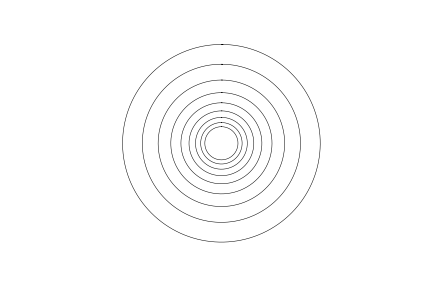
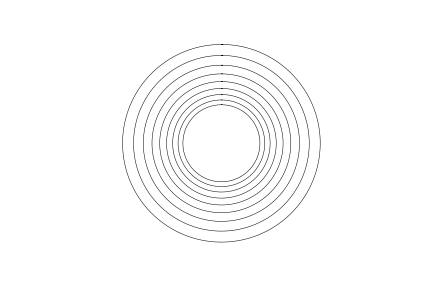
update

Changed region(s): [[0.3009, 0.1875, 0.7222, 0.8125]]

diff --git a/Retana_Efrain_Lab1.py b/Retana_Efrain_Lab1.py
@@ -14,21 +14,52 @@ def circle(center,rad):
     y = center[1]+rad*np.cos(t)
     return x,y
 
-def draw_triangles(ax,n,s):
-    ax.plot([0.5, 0.25], [0, 0.5], linewidth=0.5 ,color='k') #right line
-    ax.plot([0, 0.25], [0, 0.5], linewidth=0.5 ,color='k') #left line
-    ax.plot([0, 0.5], [0, 0], linewidth=0.5 ,color='k') #bottom line
-    
-    ax.plot([0.25,0.5], [0, 0.5], linewidth=0.5 ,color='k') #right line
-    ax.plot([0.25,0], [0, 0.5], linewidth=0.5 ,color='k') #left line
-    ax.plot([.5 , 0], [.5, .5], linewidth=0.5 ,color='k') #bottom line
-   # ax.plot([0.5, 1.01, 0.1], [-0.01, 0.5, 0.88], 'w.') #base boundary
-    
-    
+def draw_triangles(ax,n,p):
+    if n>0:
+        ax.plot(p[:,0],p[:,1],linewidth=0.5,color='k') # Draw triangle
+        i1 = [1,2,0,1]
+        q = p*(0.5)+ p[i1]*0.5
+        draw_triangles(ax,n-1,q)
+        
+def draw_triangle_grid(ax,n,p):
+    if n>0:
+        ax.plot(p[:,0],p[:,1],linewidth=0.5,color='k') # Draw triangle grid
+        i1 = [1,2,0,1]
+     
+        q = p*(0.5)+ p[i1]*0.5
+        p1 = np.array([p[0],q[2],q[0],p[0]])
+        p2 = np.array([q[2],q[1],p[2],q[2]])
+        p3 = np.array([q[0],p[1],q[1],q[0]])
+        p4 = np.array([q[0],q[1],q[2],q[0]])
+        draw_triangle_grid(ax,n-1,p1)
+        draw_triangle_grid(ax,n-1,p2)
+        draw_triangle_grid(ax,n-1,p3)
+        draw_triangle_grid(ax,n-1,p4)
+        
+   
+def draw_four_squares(ax,n,p,w):
+    if n>0:
+        ax.plot(p[:,0],p[:,1],linewidth=0.5,color='k') # plot the main square
+        # create a new square for each corner -- represented as p1(bottom left), p2(top left)
+        # p3(top right), and p4(top right)
+        p1 = np.array([ [p[0][0] - w/4,p[0][1]-w/4],[p[0][0] + w/4,p[0][1]-w/4],[p[0][0] 
+        +w/4 ,p[0][1]+w/4],[p[0][0] -w/4 ,p[0][1]+w/4],[p[0][0] - w/4,p[0][1]-w/4]])
+        p2 = np.array([ [p[1][0] -w/4 ,p[1][1]-w/4],[p[1][0] +w/4 ,p[1][1]-w/4],[p[1][0] 
+        +w/4 ,p[1][1]+w/4],[p[1][0] -w/4 ,p[1][1]+w/4],[p[1][0] -w/4 ,p[1][1]-w/4] ])
+        p3 = np.array([ [p[2][0] -w/4 ,p[2][1]-w/4],[p[2][0] +w/4 ,p[2][1]-w/4],[p[2][0] 
+        +w/4 ,p[2][1]+w/4],[p[2][0] -w/4 ,p[2][1]+w/4],[p[2][0] -w/4 ,p[2][1]-w/4] ])
+        p4 = np.array([ [p[3][0] -w/4 ,p[3][1]-w/4],[p[3][0] +w/4 ,p[3][1]-w/4],[p[3][0] 
+        +w/4 ,p[3][1]+w/4],[p[3][0] -w/4 ,p[3][1]+w/4],[p[3][0] -w/4 ,p[3][1]-w/4] ])
+        #pass 4 recursive calls on each of the new p squares
+        draw_four_squares(ax,n-1,p1,w/2)
+        draw_four_squares(ax,n-1,p2,w/2)
+        draw_four_squares(ax,n-1,p3,w/2)
+        draw_four_squares(ax,n-1,p4,w/2)
+
         
 def draw_squares(ax,n,p,w):
     if n>0:
-        ax.plot(p[:,0],p[:,1],linewidth=0.5,color='k') # Draw rectangle
+        ax.plot(p[:,0],p[:,1],linewidth=0.5,color='k') # Draw squares
         i1 = [1,2,3,0,1]
         q = p*(1-w) + p[i1]*w  
         draw_squares(ax,n-1,q,w)
@@ -42,11 +73,29 @@ def draw_four_circles(ax,n,center,radius):
         draw_four_circles(ax,n-1,[center[0]+radius,center[1]],radius/2)
         draw_four_circles(ax,n-1,[center[0]-radius,center[1]],radius/2)
         
-def drawCirlces(ax, n , center ,radius): #draw a circle recursively
+def drawCircles(center,radius,n,w): #draw a circle recursively
     if n>0:
         x,y = circle(center,radius)
         ax.plot(x,y,linewidth=0.5,color='k')
-        drawCirlces(ax,n-1,[center[0] ,center[1]],radius/1.25)
+        drawCircles(center,radius *(1-(w)),n-1,w)
+        
+def draw_branches(ax, n, p, xpos, ypos):#returns the drawing of branches
+    if n > 0:
+       points = np.zeros((3, 2))
+       points[:3] = p #populates the whole array with what p is
+       points[0][0] -= xpos #for the left branch
+       points[0][1] -= ypos
+       points[2][0] += xpos #for the right branch
+       points[2][1] -= ypos 
+       ax.plot(points[:,0],points[:,1], linewidth=0.5, color='k') 
+       draw_branches(ax, n-1, points[0], xpos/2, ypos)
+       draw_branches(ax, n-1, points[2], xpos/2, ypos)
+        
+def draw_trees(ax,n,p,deg,w):
+    ax.plot(p[:,0],p[:,1],linewidth=0.5,color='k') # Draw tree
+    p1 = np.array()
+    draw_trees()
+    
         
     
 
@@ -59,75 +108,164 @@ if __name__ == "__main__":
     print('Points in original square:')
     print(p)
     
-    fig, ax = plt.subplots()
-    draw_squares(ax,6,p,.1)
-    ax.set_aspect(1.0)
-    ax.axis('off') # Uncomment to see coordinates in drawing
-    plt.show()
-    fig.savefig('squaresa.png')
+#    fig, ax = plt.subplots()
+#    draw_squares(ax,6,p,.1)
+#    ax.set_aspect(1.0)
+#    ax.axis('off') # Uncomment to see coordinates in drawing
+#    plt.show()
+#    fig.savefig('squaresa.png')
+#    
+#    fig, ax = plt.subplots()
+#    draw_squares(ax,10,p,.2)
+#    ax.set_aspect(1.0)
+#    ax.axis('off')
+#    plt.show()
+#    fig.savefig('squaresb.png')
+#    
+#    fig, ax2 = plt.subplots()
+#    draw_squares(ax2,5,p,.3)
+#    ax2.set_aspect(1.0)
+#    ax2.axis('off')
+#    plt.show()
+#    fig.savefig('squaresc.png')
+#   
+#    fig, ax = plt.subplots() 
+#    draw_four_circles(ax, 2, [0,0], 100)
+#    ax.set_aspect(1.0)
+#    ax.axis('off')
+#    plt.show()
+#    fig.savefig('four_circlesa.png')
+#    
+#    fig, ax = plt.subplots() 
+#    draw_four_circles(ax, 3, [0,0], 100)
+#    ax.set_aspect(1.0)
+#    ax.axis('off')
+#    plt.show()
+#    fig.savefig('four_circlesb.png')
+#    
+#    fig, ax = plt.subplots() 
+#    draw_four_circles(ax, 4, [0,0], 100)
+#    ax.set_aspect(1.0)
+#    ax.axis('off')
+#    plt.show()
+#    fig.savefig('four_circlesc.png')
+#   
+#    fig, ax = plt.subplots() 
+#    drawCircles([0,0],100,3,(1/3))
+#    ax.set_aspect(1.0)
+#    ax.axis('off')
+#    plt.show()
+#    fig.savefig('circlesa.png')
+#    
+#    fig, ax = plt.subplots() 
+#    drawCircles([0,0],100,9,(1/6))
+#    ax.set_aspect(1.0)
+#    ax.axis('off')
+#    plt.show()
+#    fig.savefig('circlesb.png')
+#    
+#    fig, ax = plt.subplots() 
+#    drawCircles([0,0],100,9,(1/9))
+#    ax.set_aspect(1.0)
+#    ax.axis('off')
+#    plt.show()
+#    fig.savefig('circlesc.png')
+#
+#    a = np.array([[0,0],[50,100],[100,0],[0,0]])
+#    fig, ax = plt.subplots() 
+#    draw_triangles(ax, 3, a)
+#    ax.set_aspect(1.0)
+#    ax.axis('off')
+#    plt.show()
+#    fig.savefig('trianglesa.png')
+#    
+#    fig, ax = plt.subplots() 
+#    draw_triangles(ax, 6, a)
+#    ax.set_aspect(1.0)
+#    ax.axis('off')
+#    plt.show()
+#    fig.savefig('trianglesb.png')
+#    
+#    fig, ax = plt.subplots() 
+#    draw_triangles(ax, 9, a)
+#    ax.set_aspect(1.0)
+#    ax.axis('off')
+#    plt.show()
+#    fig.savefig('trianglesc.png')
+#    
+#    fig, ax = plt.subplots() 
+#    draw_triangle_grid(ax, 2, a)
+#    ax.set_aspect(1.0)
+#    ax.axis('off')
+#    plt.show()
+#    fig.savefig('triangleGrida.png')
+#    
+#    fig, ax = plt.subplots() 
+#    draw_triangle_grid(ax, 3, a)
+#    ax.set_aspect(1.0)
+#    ax.axis('off')
+#    plt.show()
+#    fig.savefig('triangleGridb.png')
+#    
+#    fig, ax = plt.subplots() 
+#    draw_triangle_grid(ax, 4, a)
+#    ax.set_aspect(1.0)
+#    ax.axis('off')
+#    plt.show()
+#    fig.savefig('triangleGridc.png')
+# 
+#    squares = np.array([[0,0],[0,100],[100,100],[100,0],[0,0]])
+#    fig, ax = plt.subplots() 
+#    draw_four_squares(ax, 2, squares, 100)
+#    ax.set_aspect(1.0)
+#    ax.axis('off')
+#    plt.show()
+#    fig.savefig('four_squaresa.png')
+#    
+#    fig, ax = plt.subplots() 
+#    draw_four_squares(ax, 3, squares, 100)
+#    ax.set_aspect(1.0)
+#    ax.axis('off')
+#    plt.show()
+#    fig.savefig('four_squaresb.png')
+#    
+#    fig, ax = plt.subplots() 
+#    draw_four_squares(ax, 4, squares, 100)
+#    ax.set_aspect(1.0)
+#    ax.axis('off')
+#    plt.show()
+#    fig.savefig('four_squaresc.png')
+#    
+#    
+#    branches = np.array([[500, 1000]])
+#    fig, ax = plt.subplots() #5a, draw_branch method
+#    draw_branches(ax, 4, branches, 3, 1)
+#    ax.set_aspect(1.0)
+#    ax.axis('off')
+#    plt.show()
+#    fig.savefig('branchesa.png')
+#    
+#    fig, ax = plt.subplots() #5a, draw_branch method
+#    draw_branches(ax, 5, branches, 3, 1)
+#    ax.set_aspect(1.0)
+#    ax.axis('off')
+#    plt.show()
+#    fig.savefig('branchesb.png')
+#    
+#    fig, ax = plt.subplots() #5a, draw_branch method
+#    draw_branches(ax, 6, branches, 3, 1)
+#    ax.set_aspect(1.0)
+#    ax.axis('off')
+#    plt.show()
+#    fig.savefig('branchesc.png')
     
-    fig, ax = plt.subplots()
-    draw_squares(ax,10,p,.2)
-    ax.set_aspect(1.0)
-    ax.axis('off')
-    plt.show()
-    fig.savefig('squaresb.png')
-    
-    fig, ax2 = plt.subplots()
-    draw_squares(ax2,5,p,.3)
-    ax2.set_aspect(1.0)
-    ax2.axis('off')
-    plt.show()
-    fig.savefig('squaresc.png')
-    
+    trees = np.array([[0,0],[0,50],[-25,75],[0,50],[25,75]])
     fig, ax = plt.subplots() 
-    draw_four_circles(ax, 2, [0,0], 100)
+    draw_trees(ax, 1, trees, 100)
     ax.set_aspect(1.0)
     ax.axis('off')
     plt.show()
-    fig.savefig('four_circlesa.png')
-    
-    fig, ax = plt.subplots() 
-    draw_four_circles(ax, 3, [0,0], 100)
-    ax.set_aspect(1.0)
-    ax.axis('off')
-    plt.show()
-    fig.savefig('four_circlesb.png')
-    
-    fig, ax = plt.subplots() 
-    draw_four_circles(ax, 4, [0,0], 100)
-    ax.set_aspect(1.0)
-    ax.axis('off')
-    plt.show()
-    fig.savefig('four_circlesc.png')
-    
-    fig, ax = plt.subplots() 
-    drawCirlces(ax, 3, [0,0], 100)
-    ax.set_aspect(1.0)
-    ax.axis('off')
-    plt.show()
-    fig.savefig('circlesc.png')
-    
-    fig, ax = plt.subplots() 
-    drawCirlces(ax, 6, [0,0], 100)
-    ax.set_aspect(1.0)
-    ax.axis('off')
-    plt.show()
-    fig.savefig('circlesc.png')
-    
-    fig, ax = plt.subplots() 
-    drawCirlces(ax, 9, [0,0], 100)
-    ax.set_aspect(1.0)
-    ax.axis('off')
-    plt.show()
-    fig.savefig('circlesc.png')
-    
-    fig, ax = plt.subplots() 
-    draw_triangles(ax, 1, 100)
-    ax.set_aspect(1.0)
-    ax.axis('off')
-    plt.show()
-    fig.savefig('trianglesc.png')
+    fig.savefig('treesa.png')
     
     
     
